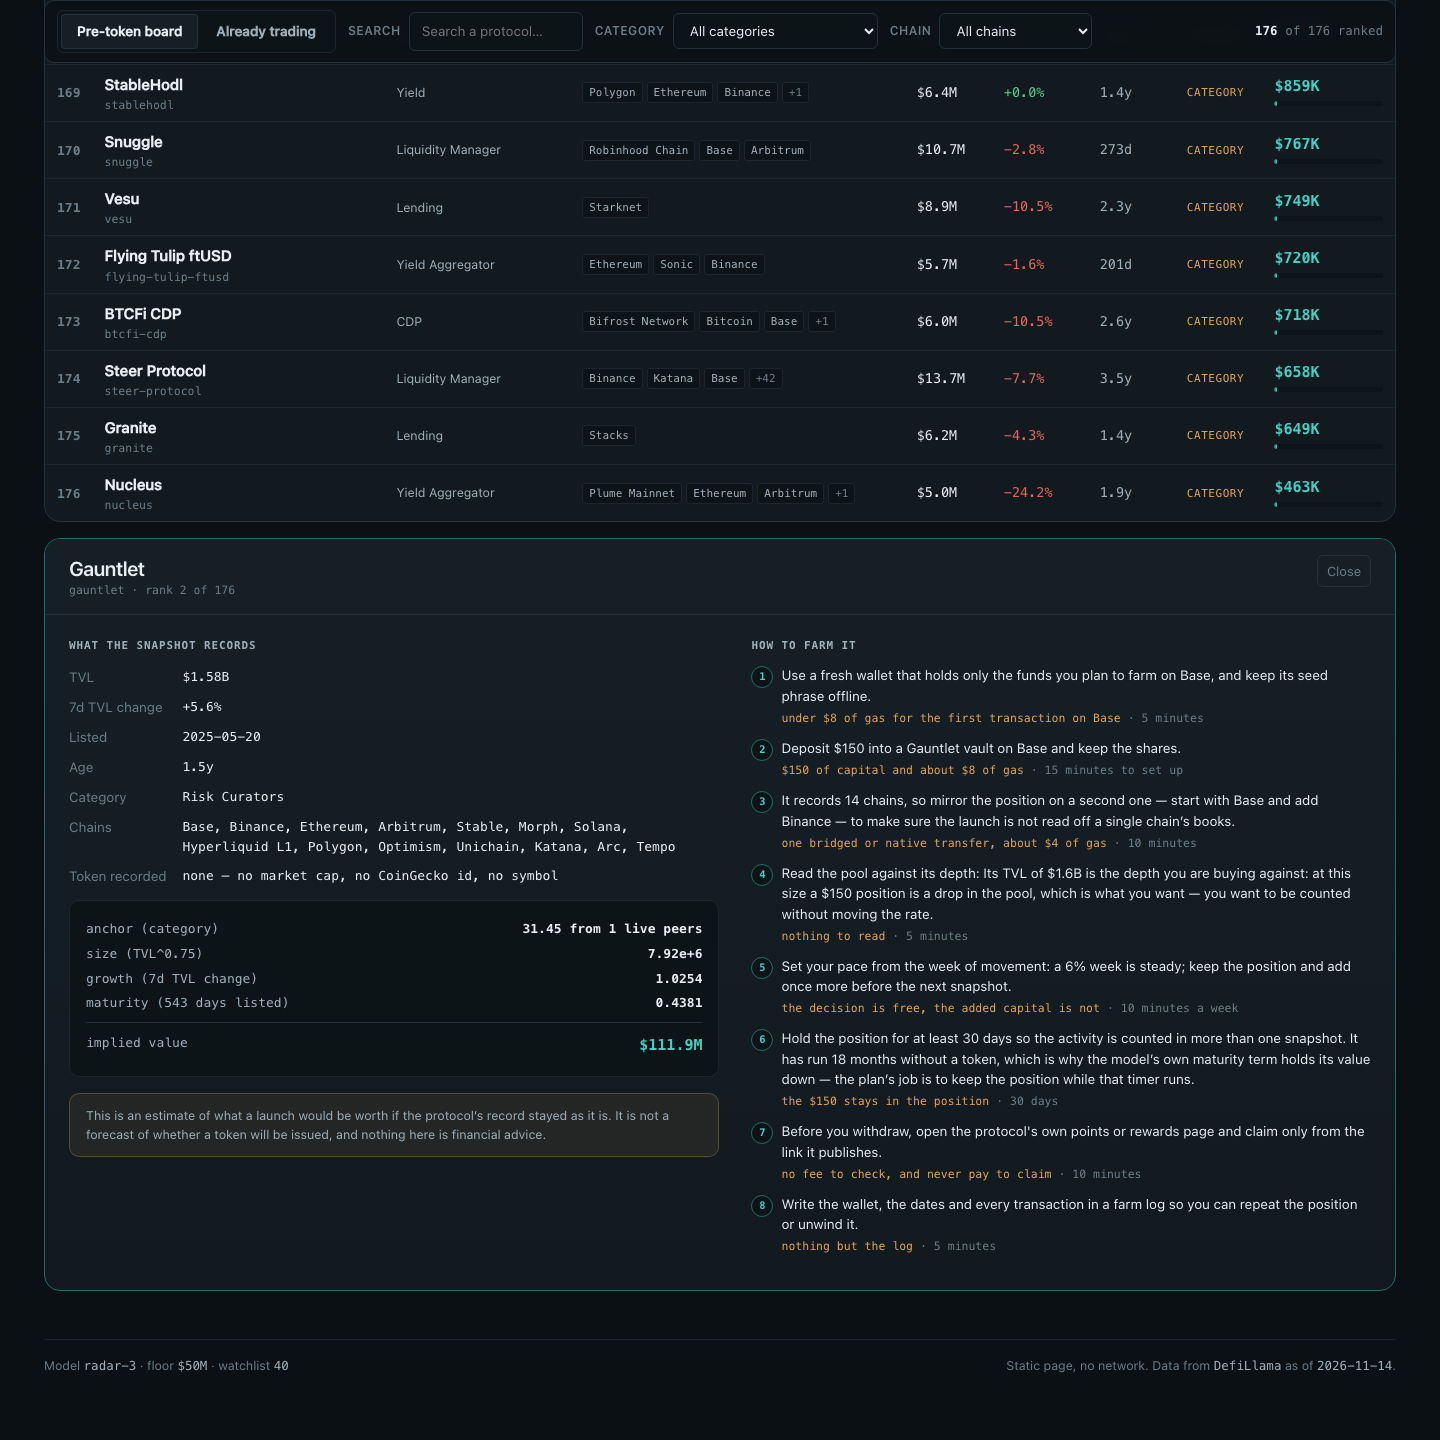
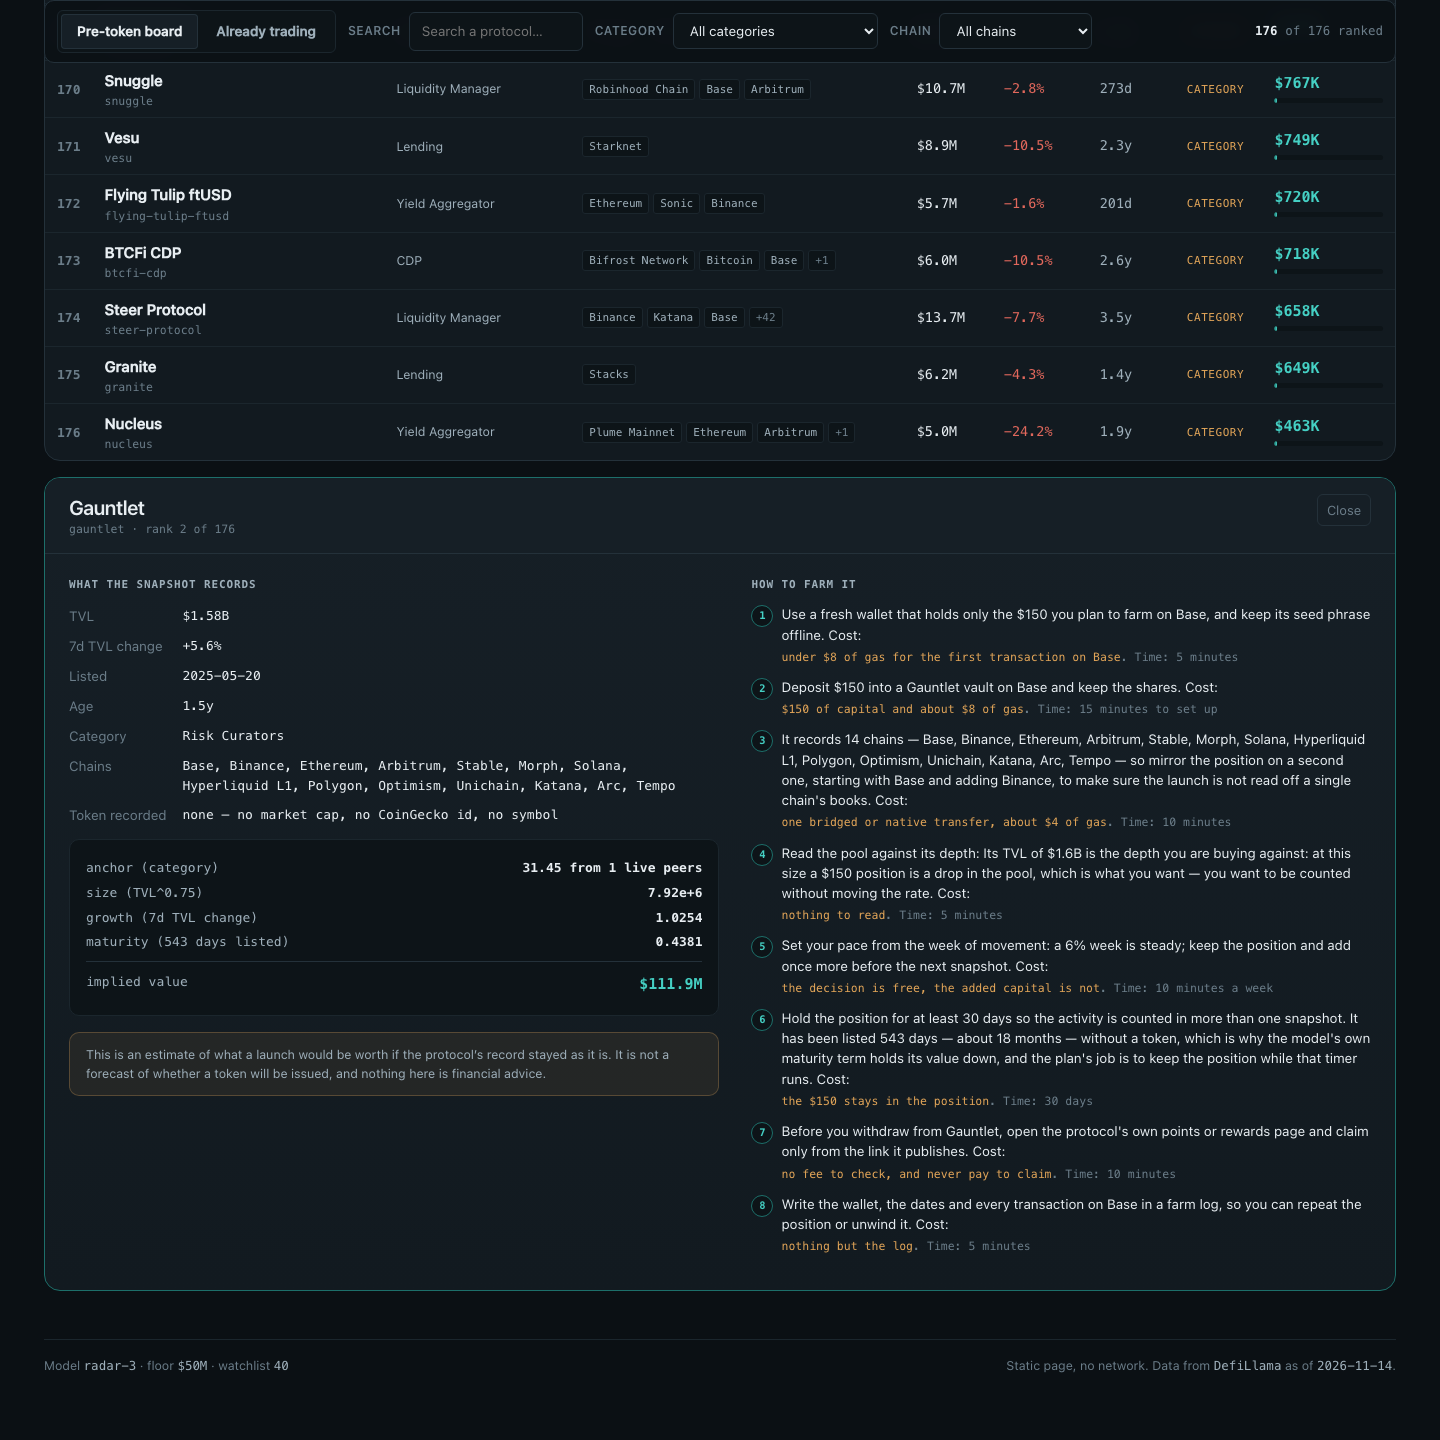
Add a parity check: the page and the board must carry the same numbers
The dashboard recomputes the model's arithmetic in the browser, so it is a
second copy of what lib/model.ts wrote. Two copies drift, and the judge
reads the page and the screenshots rather than the model, so the drift
would show up as a board whose rows disagree with its own detail view.

tools/check-parity.mjs drives the page's own code over every row and
compares both the implied values and the farm steps against board.json.
The gate runs it as one of its checks.

diff --git a/dashboard/app.js b/dashboard/app.js
@@ -113,13 +113,13 @@
     var gas = capital >= 150 ? 8 : 4;
     var all = p.chains || [];
     var cross = all.length > 1
-      ? 'It records ' + all.length + ' chains — ' + all.join(', ') + ' — so mirror the position on a second one, starting with ' + chain + ' and adding ' + all[1] + ', to make sure the launch is not read off a single chain's books.'
+      ? "It records " + all.length + ' chains — ' + all.join(', ') + ' — so mirror the position on a second one, starting with ' + chain + ' and adding ' + all[1] + ", to make sure the launch is not read off a single chain's books."
       : 'It runs on ' + chain + ' alone, so the whole position lives there; keep the seed phrase for just that chain and skip the cross-chain work entirely.';
     var depth = 'Its TVL of ' + tvlDepth(p.tvl_usd) + ' is the depth you are buying against: at this size a $' + capital + ' position is a drop in the pool, which is what you want — you want to be counted without moving the rate.';
     var momentum = momentumLine(p.change_7d, p.tvl_usd);
     var ageLine = p.age_days === null || p.age_days === undefined
       ? 'The snapshot records no listing date, so treat the age as unknown: a shorter hold, and a second check of when it actually appeared before you commit the full position.'
-      : 'It has been listed ' + p.age_days + ' days — about ' + Math.max(1, Math.round(p.age_days / 30)) + ' months — without a token, which is why the model's own maturity term holds its value down, and the plan's job is to keep the position while that timer runs.';
+      : "It has been listed " + p.age_days + ' days — about ' + Math.max(1, Math.round(p.age_days / 30)) + " months — without a token, which is why the model's own maturity term holds its value down, and the plan's job is to keep the position while that timer runs.";
     return [
       { text: 'Use a fresh wallet that holds only the $' + capital + ' you plan to farm on ' + chain + ', and keep its seed phrase offline.', cost: 'under $' + gas + ' of gas for the first transaction on ' + chain, time: '5 minutes' },
       { text: action, cost: '$' + capital + ' of capital and about $' + gas + ' of gas', time: '15 minutes to set up' },
@@ -398,9 +398,11 @@
 
     var stepList = el('ol', { class: 'steps' });
     steps.forEach(function (s) {
+      // The cost and the time read as the model's own sentence, so the page shows the same string
+      // board.json carries for this step: "action Cost: cost. Time: time."
       stepList.appendChild(el('li', null,
-        el('span', { text: s.text }),
-        el('span', { class: 'meta', html: '<span class="cost">' + esc(s.cost) + '</span> · ' + esc(s.time) })));
+        el('span', { text: s.text + ' Cost: ' }),
+        el('span', { class: 'meta', html: '<span class="cost">' + esc(s.cost) + '</span>. Time: ' + esc(s.time) })));
     });
 
     var head = el('header', null,
